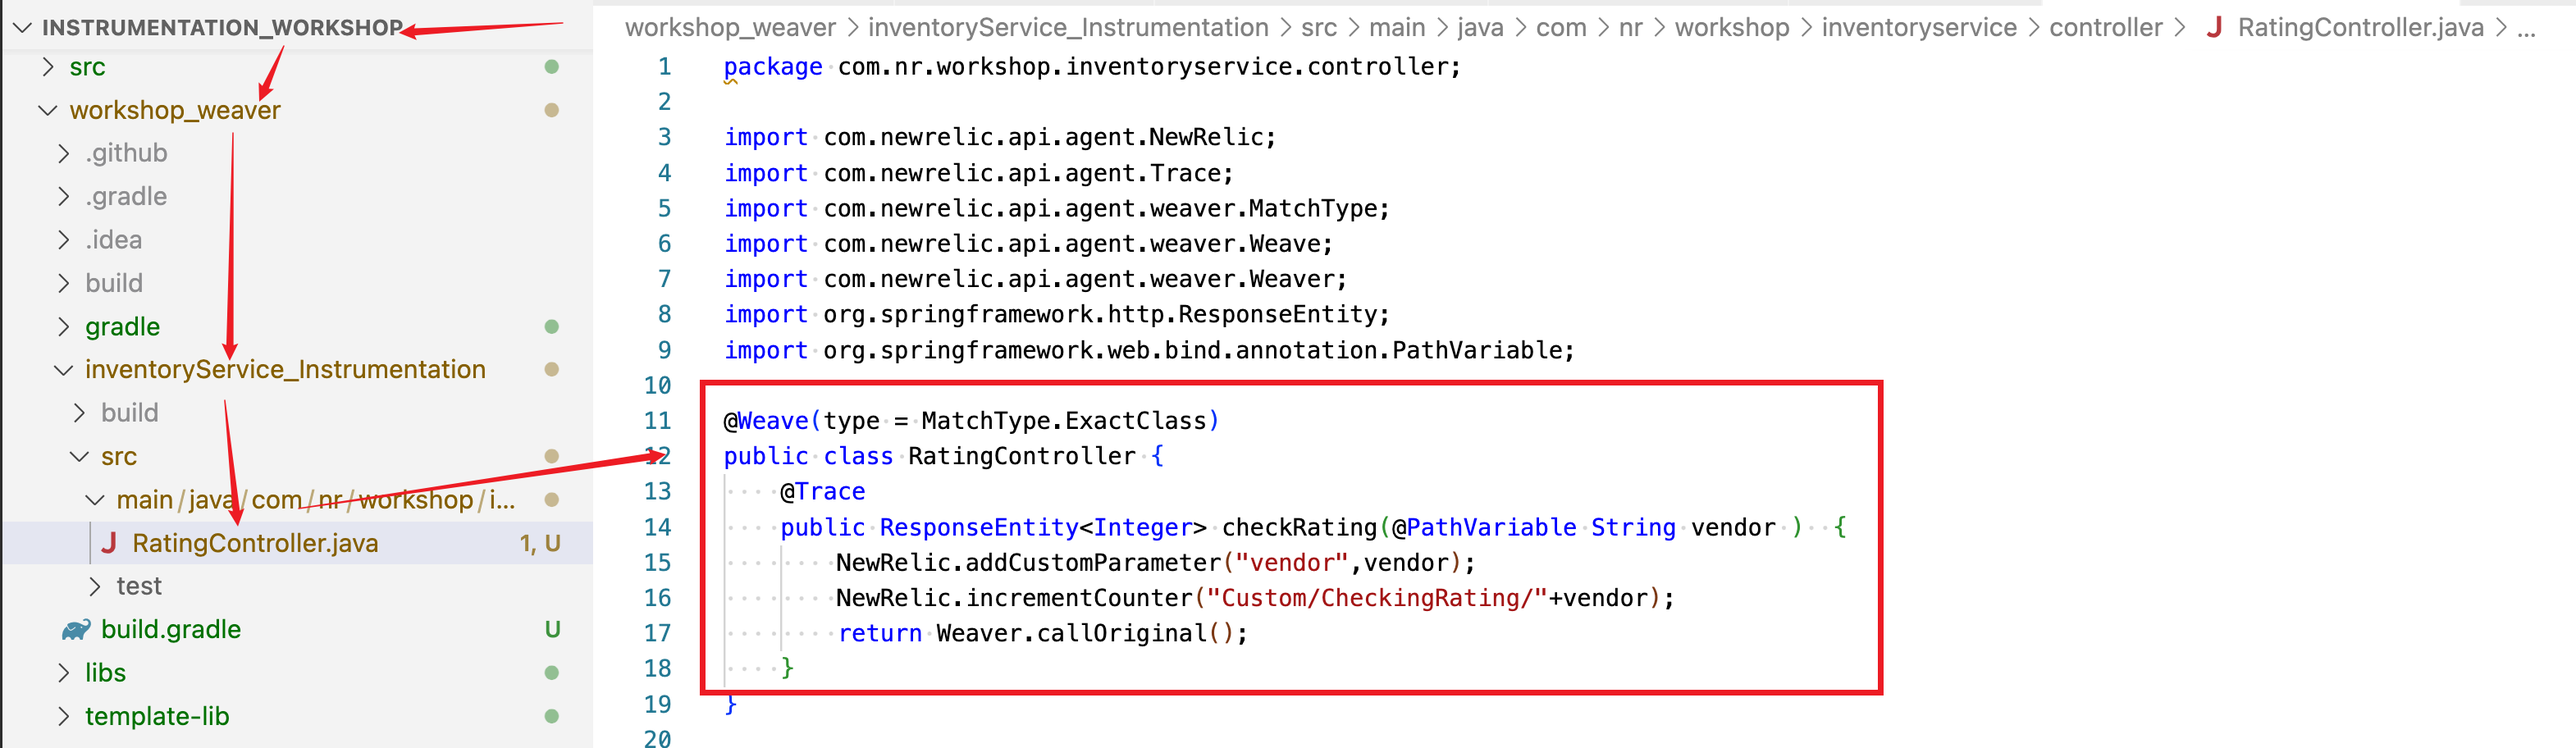
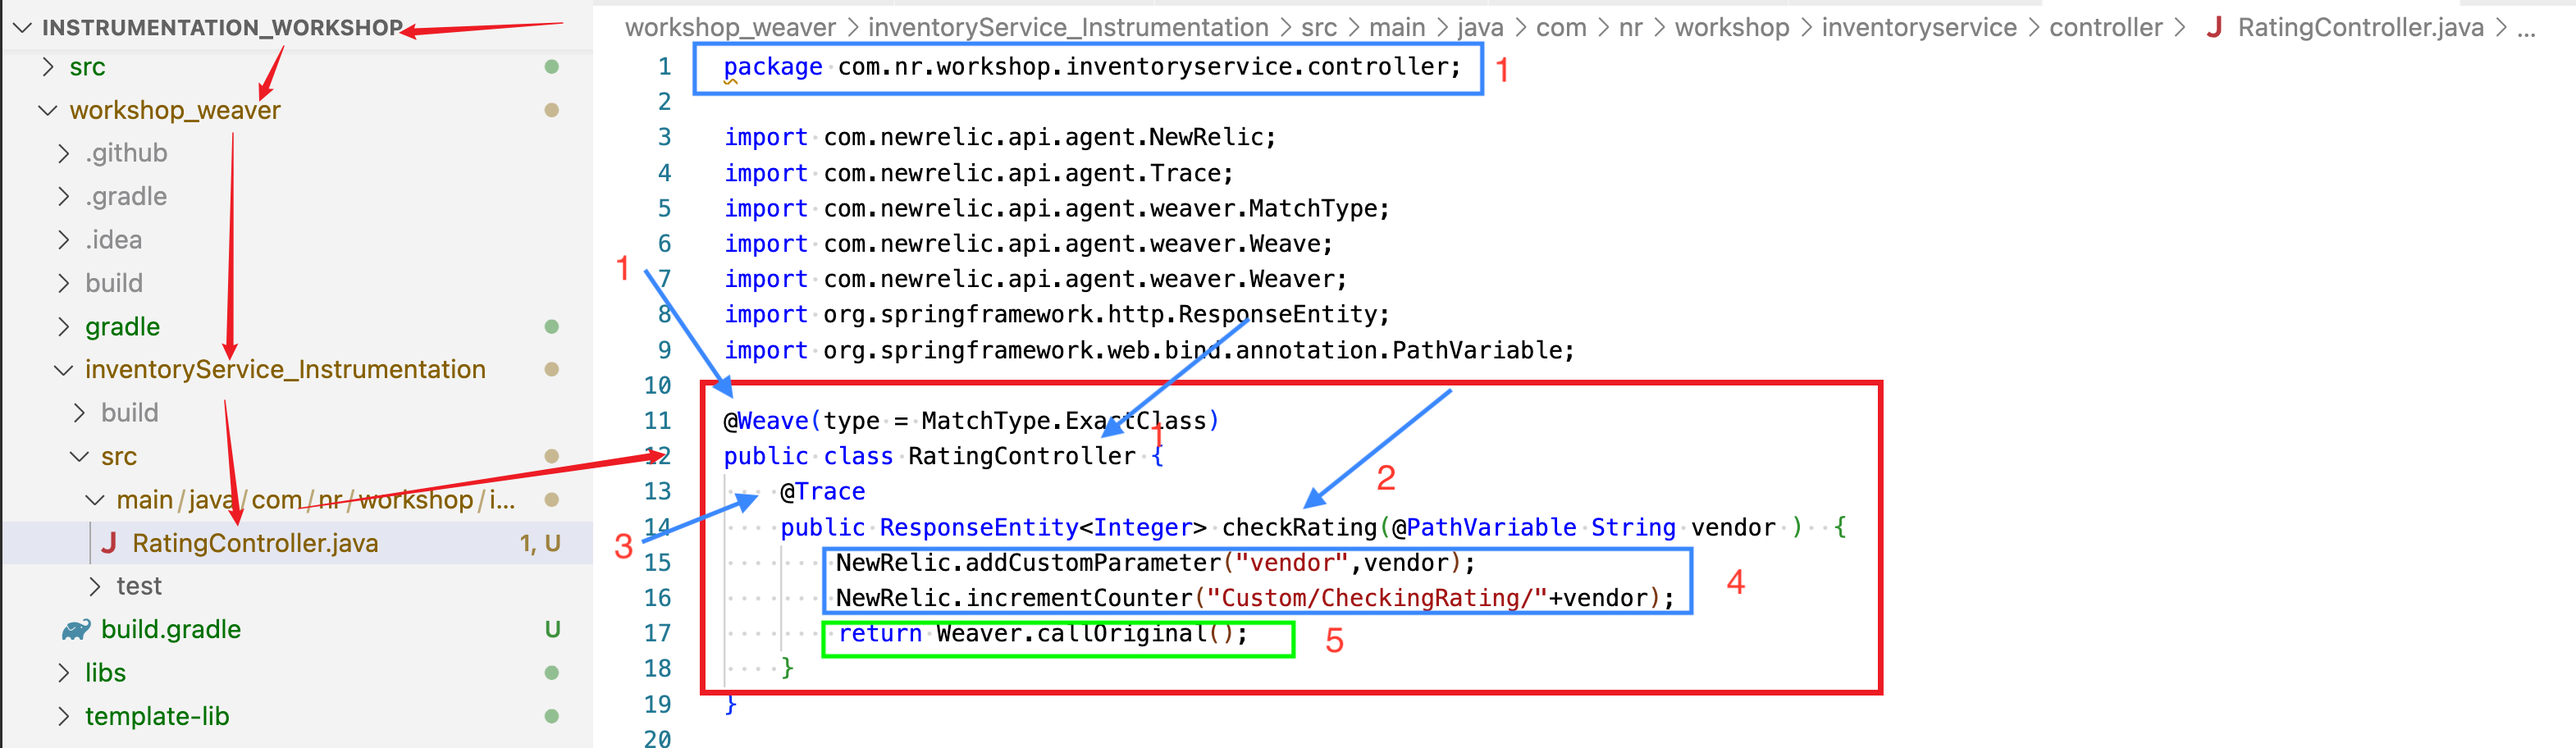
update lab11

diff --git a/docs/contents/labs/lab11.md b/docs/contents/labs/lab11.md
@@ -3,25 +3,31 @@
 - Your team does not own `inventoryService` application source code. However, the business has the following requirements:    
 
   > 1. to keep track of the `vendor` info for which the `checkRating` being called   
-  > 2. to keep track how many times the `checkRating` being called per vendor  
+  > 2. to keep track how many times the `checkRating` being called per vendor   
+<br/>
+
+- You do have access to the jar file of the application and you identify the class and method where you can capture the required metrics.   
 
     ![Lab Diagram](../assets/images/classToWeave.png)
 
-- NR Weaver instrumentation allows you to create a mirrored class which will be merged into application's(e.g. `inventoryService`) class (e.g. `RatingController`) during runtime. 
+- NR Weaver instrumentation allows you to create a mirrored class which is merged into application's(e.g. `inventoryService`) class (e.g. `RatingController`) during runtime. 
 
 - A Weaver project(`workshop_weaver`) is created to meet the above requirements.   
-  
-  In the `workshop_weaver` project, a dedicate module `inventoryService_Instrumentation` is created to do weaver instrumentation for `inventoryService` application. 
+  > Weaver instrumetation by itself is a seperate workshop  
+  > This purpose of this lab is to illustrate the basic concept of the Weaver instrumetation  
 
-  > - A mirrored class **com.nr.workshop.inventoryservice.controller.**`RatingController` is created with `@Weave` annotation   
-  > - `checkRating` method in the mirrored class has the same class signature as the application's class  
-  > - `@Trace` annotation added to `checkRating` method  
-  > - The following code is added to achieve the requirements  
+  
+- In the `workshop_weaver` project(included in this package), a dedicate module `inventoryService_Instrumentation` is created to do weaver instrumentation for `inventoryService` application. In this `inventoryService_Instrumentation` module : 
+
+  > - A mirrored class **com.nr.workshop.inventoryservice.controller.**`RatingController` is created with `@Weave` annotation (1)  
+  > - The `checkRating` method in the mirrored class matches the `checkRating` method signature in the application's class (2) 
+  > - `@Trace` annotation added to the `checkRating` method (3) 
+  > - The following code is added to achieve the requirements  (4)
   >  ```
   >      NewRelic.addCustomParameter("vendor",vendor);
   >      NewRelic.incrementCounter("Custom/CheckingRating/"+vendor);
   >  ```
-  > - The `return Weaver.callOriginal();` indicates the original `checkRating` code is called after the above code. 
+  > - The `return Weaver.callOriginal();` indicates the original `checkRating` code is called after the above code (5)
 
     ![Lab Diagram](../assets/images/weaverProject.png)
 
@@ -30,7 +36,7 @@
 
     ![Lab Diagram](../assets/images/classVSweaverclass.png)
 
-- The merged(weaved) class (e.g. `RatingController`)  during runtime is sort of like the following:   
+- The merged(weaved) class (e.g. `RatingController`) during runtime is sort of like the following:   
   > The code in the red box comes from weaver class   
   > The code in the blue box comes from the original application class   
 
